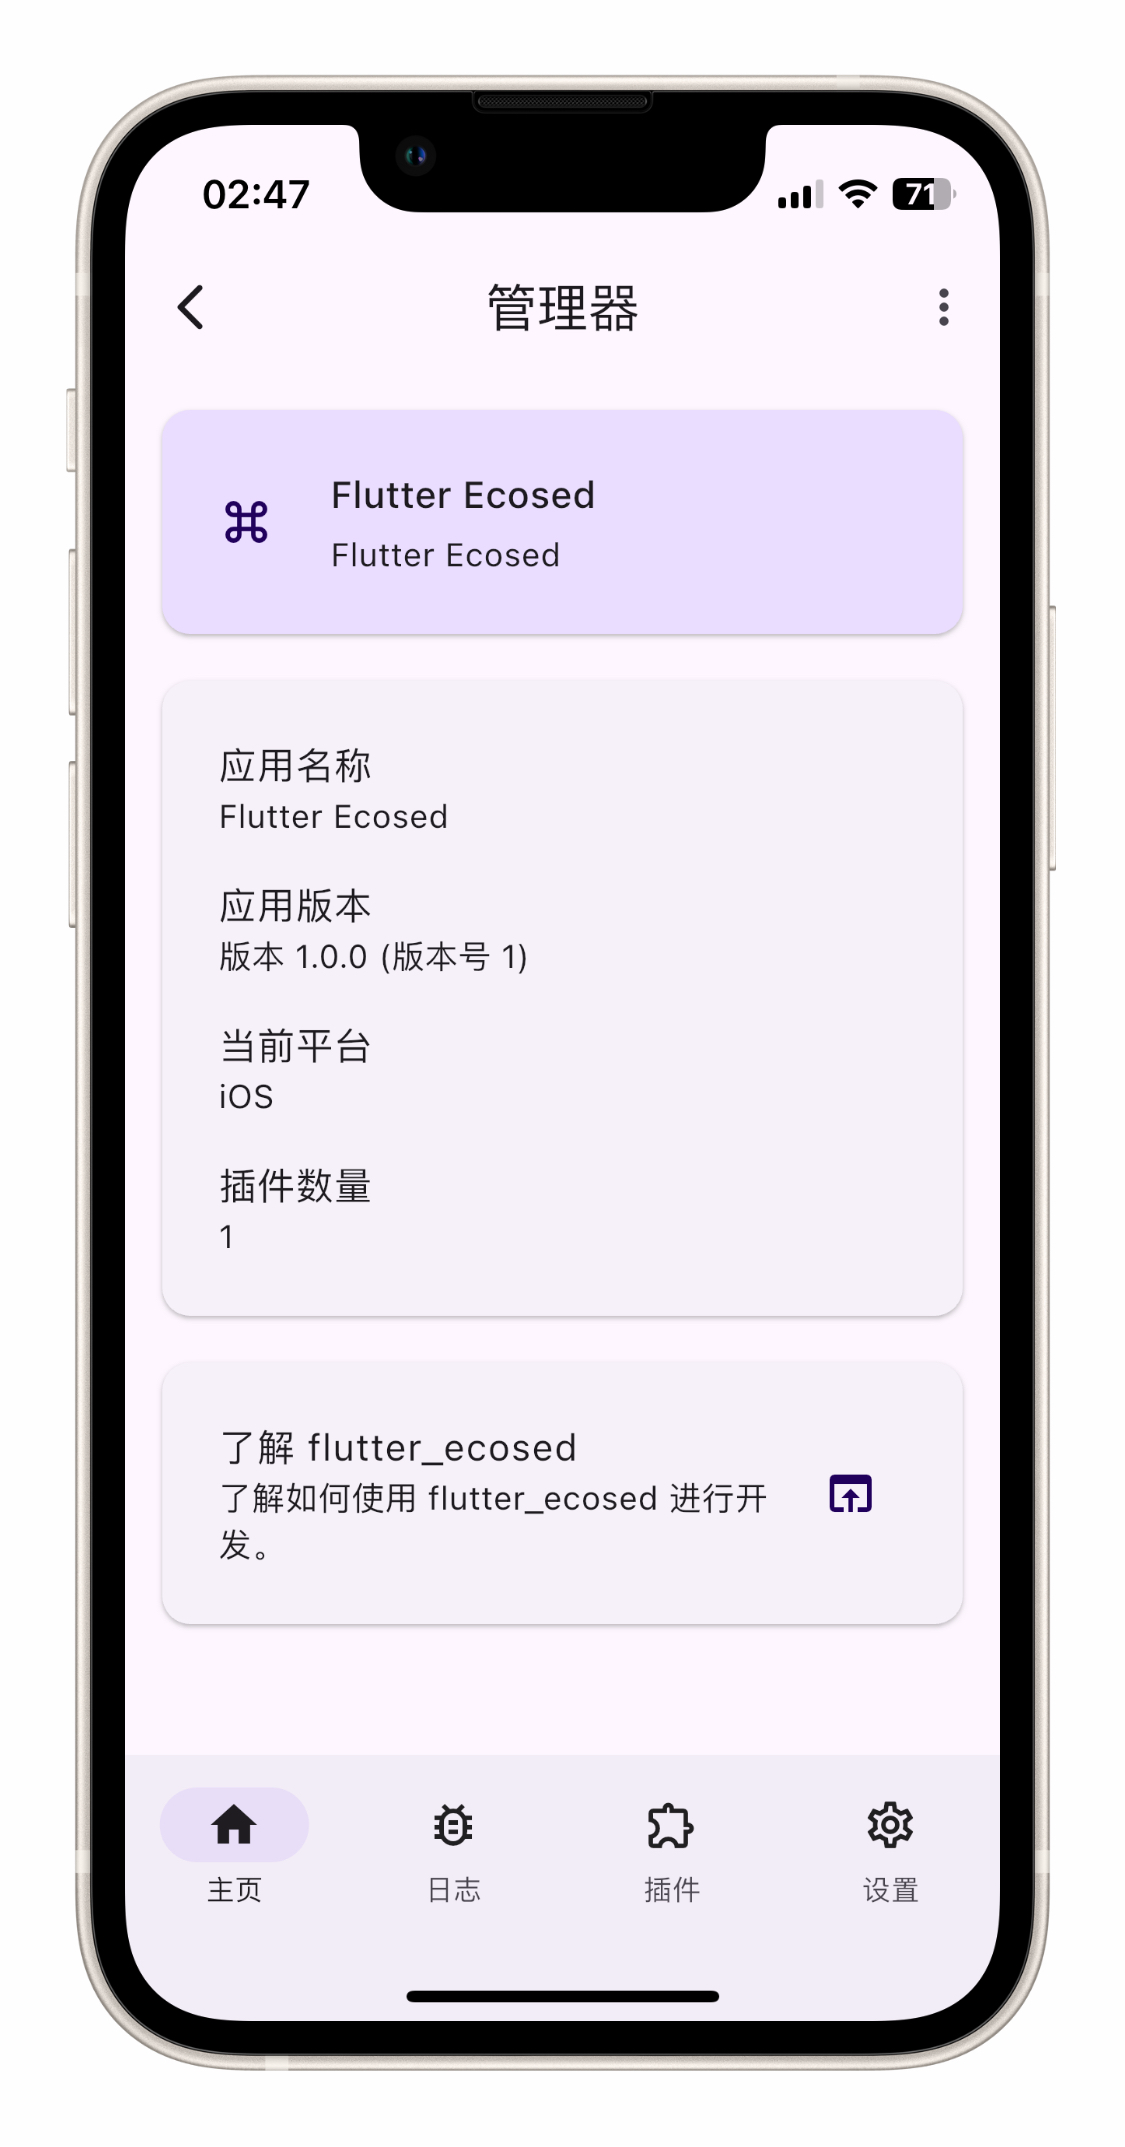
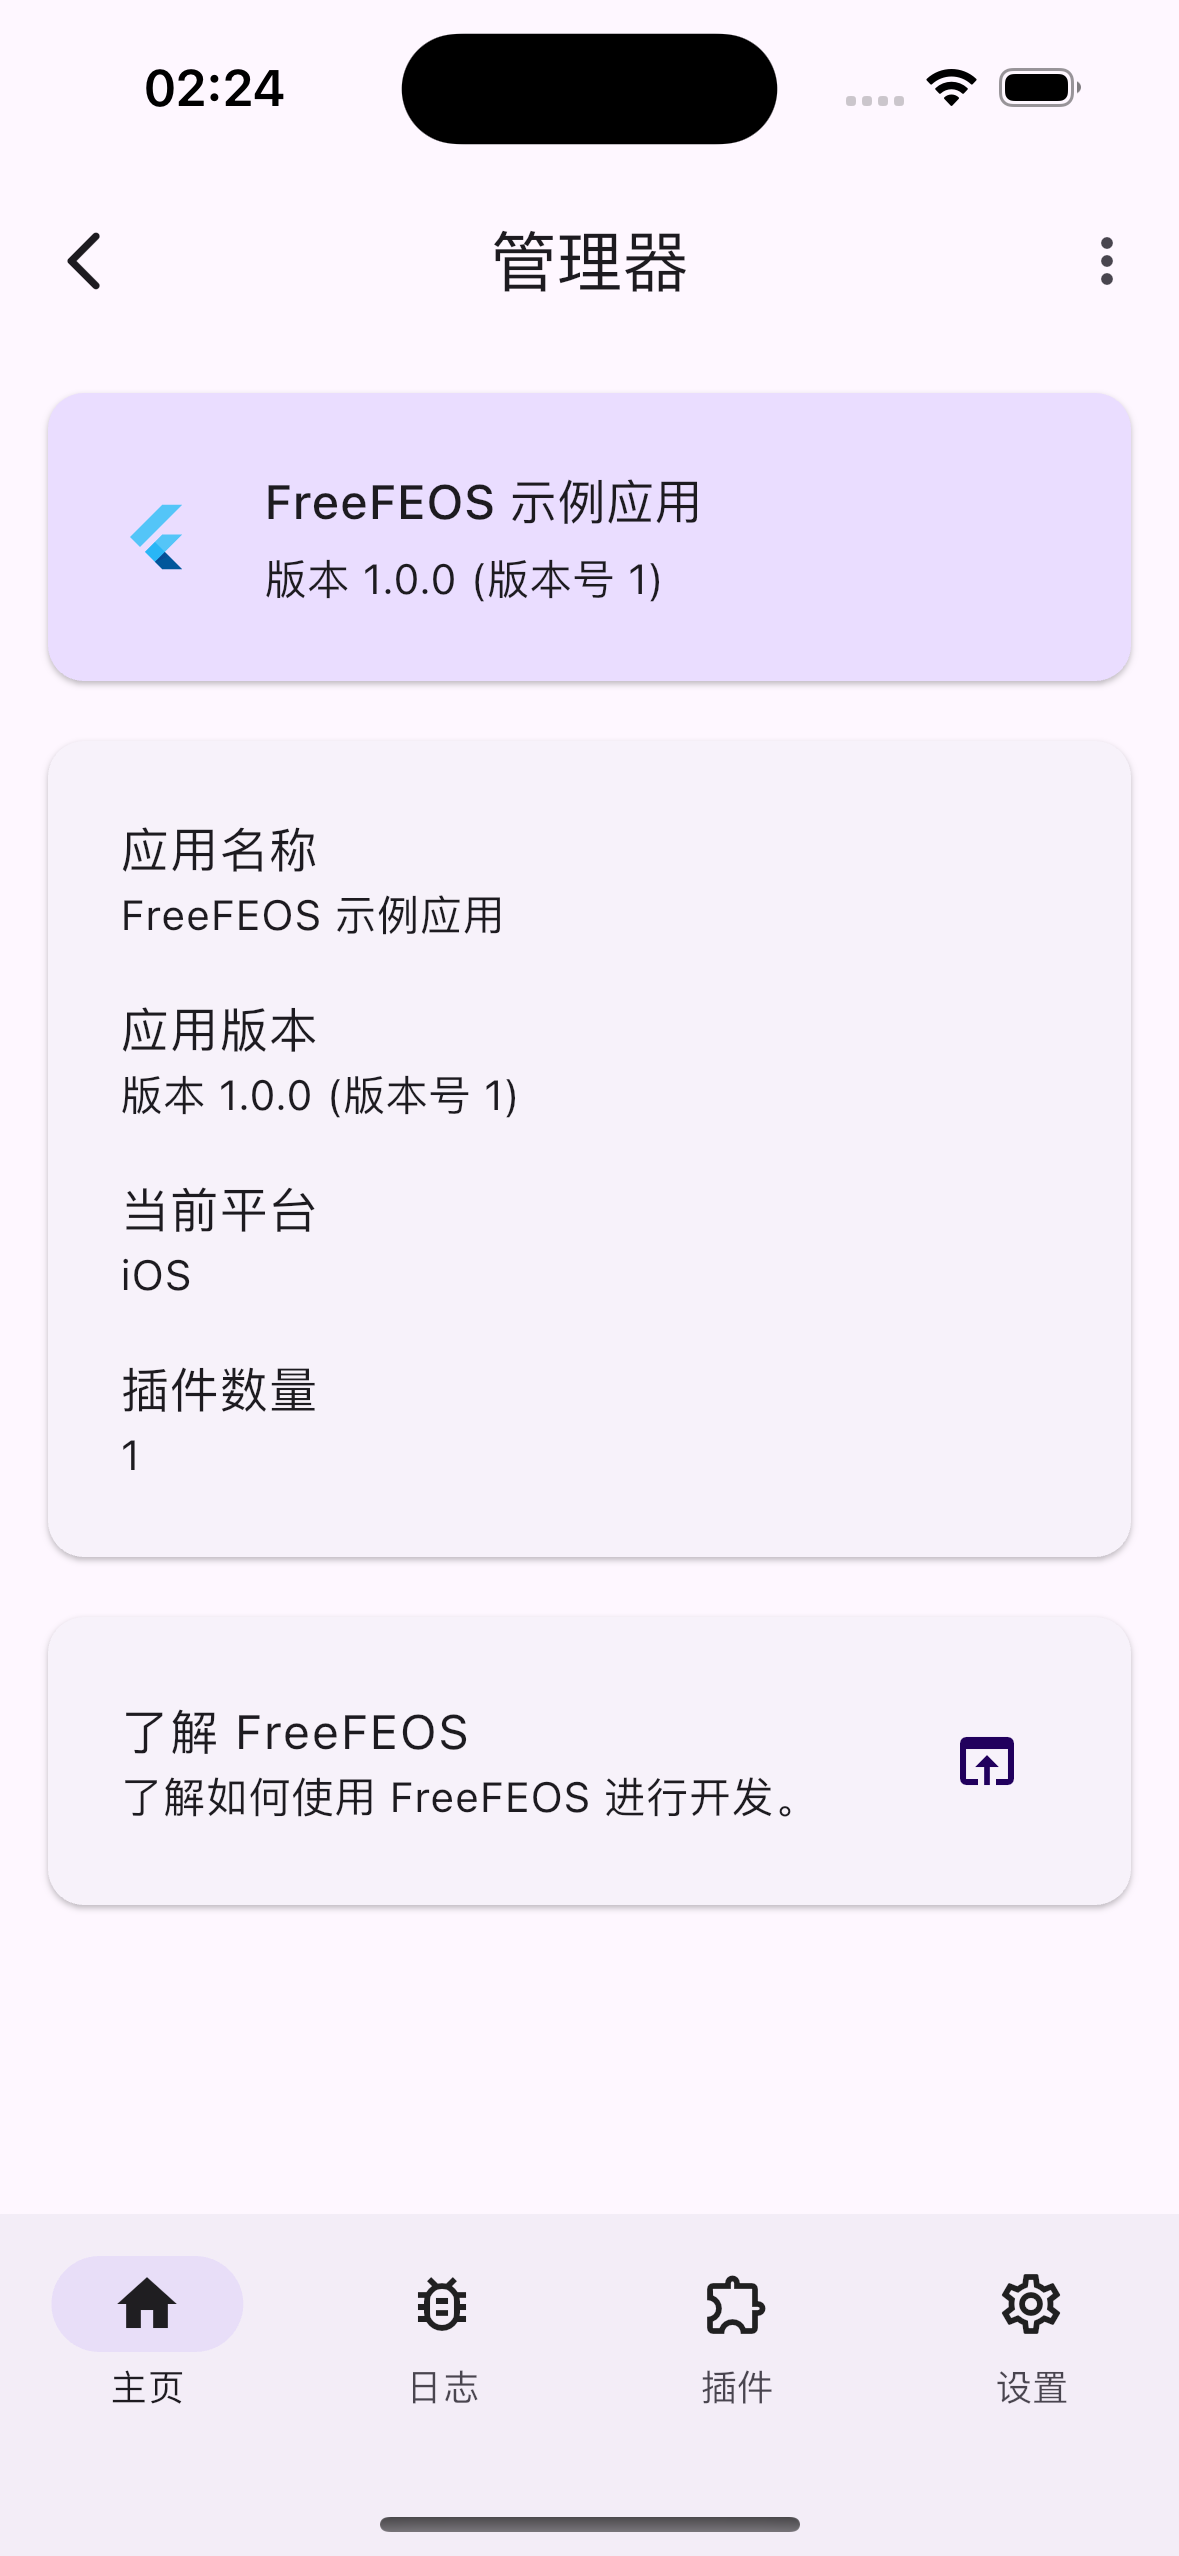
commit

Changed region(s): [[0.0311, 0.0, 0.9644, 0.9986], [0.7778, 0.8426, 0.8089, 0.905], [0.7156, 0.6865, 0.7778, 0.7177]]

diff --git a/lib/src/widget/state_card.dart b/lib/src/widget/state_card.dart
@@ -16,11 +16,7 @@ class StateCard extends StatelessWidget {
         padding: const EdgeInsets.all(24),
         child: Row(
           children: [
-            Icon(
-              Icons.keyboard_command_key,
-              size: Theme.of(context).iconTheme.size,
-              color: Theme.of(context).colorScheme.onPrimaryContainer,
-            ),
+            const FlutterLogo(),
             Expanded(
               child: Padding(
                 padding: const EdgeInsets.only(left: 24),

diff --git a/README.md b/README.md
@@ -1,3 +1,77 @@
-# freefeos
 
-FreeFEOS
+Logo先欠着
+
+
+[FreeFEOS](https://pub.dev/packages/freefeos): 介绍还没想好
+
+
+[![Pub Version](https://img.shields.io/pub/v/freefeos?include_prereleases&style=flat-square&logo=dart&logoColor=white&label=Pub&color=blue)](https://pub.dev/packages/freefeos)
+[![GitHub Repo stars](https://img.shields.io/github/stars/FreeFEOS/FreeFEOS?style=flat-square&logo=github&logoColor=white&label=Stars&color=blue)](https://github.com/FreeFEOS/FreeFEOS)
+[![GitHub forks](https://img.shields.io/github/forks/FreeFEOS/FreeFEOS?style=flat-square&logo=github&logoColor=white&label=Forks&color=blue)](https://github.com/FreeFEOS/FreeFEOS/fork)
+[![GitHub License](https://img.shields.io/github/license/FreeFEOS/FreeFEOS?style=flat-square&logo=github&logoColor=white&label=License)](https://github.com/FreeFEOS/FreeFEOS/blob/master/LICENSE)
+[![Powered by FreeFEOS](https://img.shields.io/badge/Powered_by-FreeFEOS-deeppink?style=flat-square&logo=flutter&logoColor=white)](https://github.com/FreeFEOS/FreeFEOS)
+
+---
+
+[<img src="https://raw.githubusercontent.com/FreeFEOS/FreeFEOS/master/screenshot.png" width="200">](https://raw.githubusercontent.com/FreeFEOS/FreeFEOS/master/screenshot.png)
+
+## 🍀这是什么?
+
+介绍还没想好
+
+## 📚快速开始
+
+1.搭建开发环境:
+  
+* 完整的[Flutter](https://docs.flutter.dev/get-started/install)开发环境
+* [Rust](https://www.rust-lang.org/tools/install)工具链
+
+2.创建新的Flutter项目
+
+* 无论是[命令行](), 还是[VSCode](), 还是[IntelliJ IDEA](), 只要能正常创建Flutter项目的方法都可以.
+
+3.添加依赖
+
+* 在项目的pubspec.yaml中添加依赖:
+[![Pub Version](https://img.shields.io/pub/v/freefeos?include_prereleases&style=flat-square&logo=dart&logoColor=white&label=Pub&color=blue)](https://pub.dev/packages/freefeos)
+```
+dependencies:
+  freefeos: ^这里写最新版本
+```
+* 在终端中更新依赖:
+```
+flutter pub get
+```
+
+4.编写代码
+
+5.添加标签
+
+* [![Powered by FreeFEOS](https://img.shields.io/badge/Powered_by-FreeFEOS-deeppink?style=flat-square&logo=flutter&logoColor=white)](https://github.com/FreeFEOS/FreeFEOS)
+
+* 最后记得在README.md中添加标签(非必需).
+
+## 📔更新日志
+
+有关详细信息，请参阅 [CHANGELOG](https://github.com/FreeFEOS/FreeFEOS/blob/master/CHANGELOG.md) 文件.
+
+## 👍参与开发
+
+如果您还不了解Flutter, 👇请往下看.
+
+### Flutter 入门
+
+该项目是 Flutter
+[插件包](https://flutter.dev/developing-packages/)
+的起点，这是一个包含针对 Android 和/或 iOS 平台特定实现代码的专用包。
+
+如需 Flutter 开发入门帮助，请查看
+[在线文档](https://flutter.dev/docs)，其中提供教程、
+示例、移动开发指南以及完整的 API 参考。
+
+## 致谢
+
+* [FreeRTOS]() : [FreeFEOS]()项目命名的灵感来源.
+
+## 许可
+该项目采用 BSD-3-Clause 许可证 - 有关详细信息，请参阅 [LICENSE](https://github.com/FreeFEOS/FreeFEOS/blob/master/LICENSE) 文件.

diff --git a/CHANGELOG.md b/CHANGELOG.md
@@ -1,4 +1,4 @@
 ## 0.0.1-dev.0
-* Preliminary completion of code migration.
+* The original flutter_ecosed project code has been migrated.
 ## 0.0.0-publishtest.0
 * First release test on pub.dev, no features implemented, please do not use!
